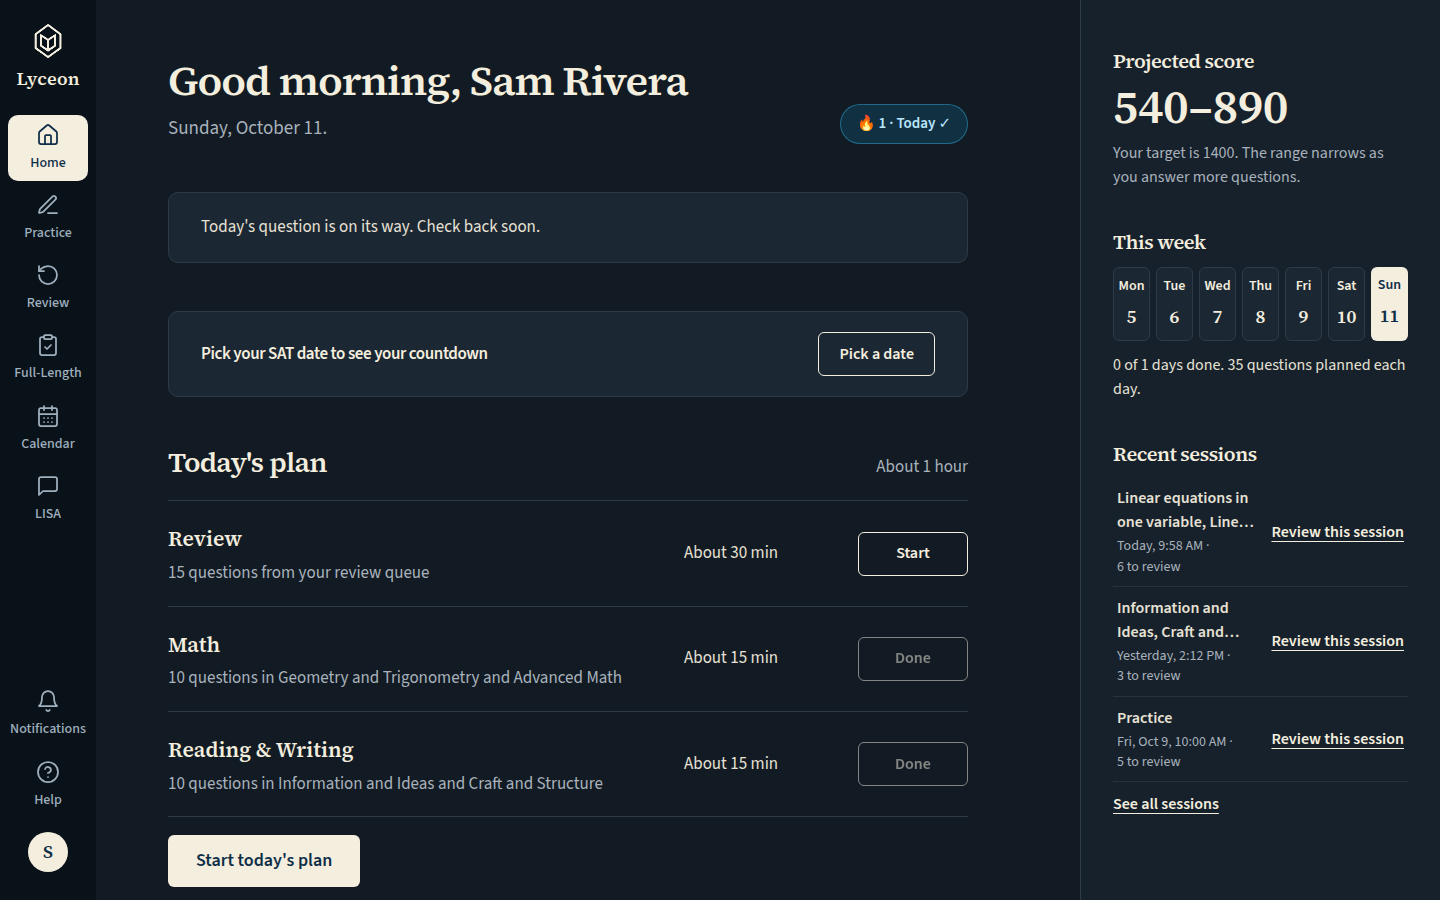
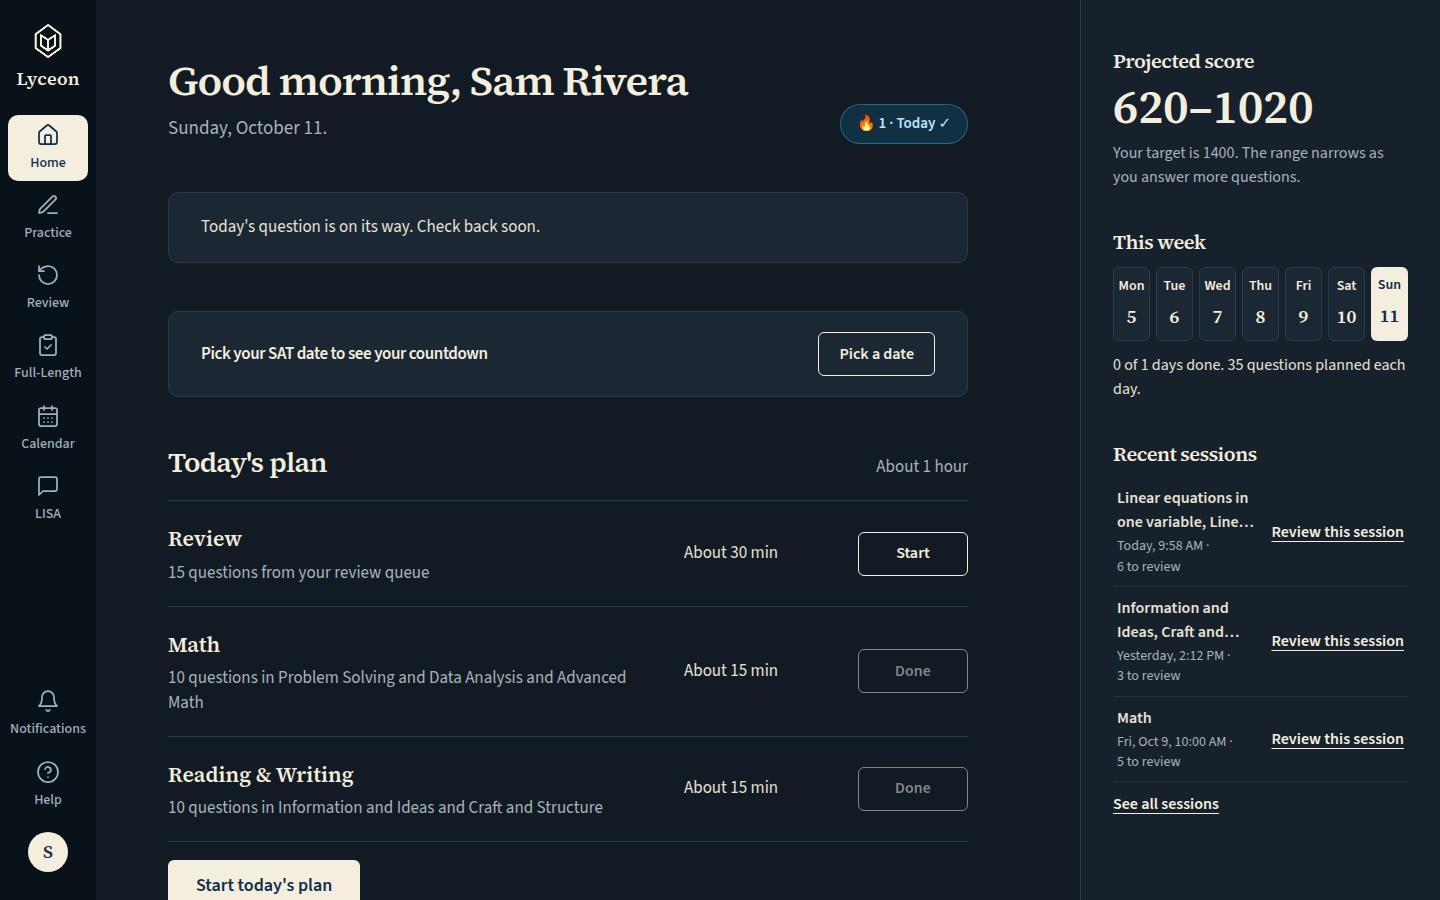
harness(SAT-DATES): canonical section codes in the long-title pool; re-capture
The fixture used "math"/"rw"; the section vocabulary gate requires
'M'/'RW' (long forms are applied at render). The third row now renders
the canonical 'Math' title.

Claude-Session: https://claude.ai/code/session_01DzryTvDS5m7fLVPUjsQYgR

diff --git a/tests/e2e/student-harness/groups/sat-dates.ts b/tests/e2e/student-harness/groups/sat-dates.ts
@@ -36,7 +36,7 @@ const LONG_TITLE_POOL = reviewPoolSummaryResponseSchema.parse({
       local_time: "9:58 AM",
       mode: "practice",
       filters: {
-        sections: ["math"],
+        sections: ["M"],
         domains: ["Algebra"],
         skills: [
           "Linear equations in one variable",
@@ -57,7 +57,7 @@ const LONG_TITLE_POOL = reviewPoolSummaryResponseSchema.parse({
       local_time: "2:12 PM",
       mode: "practice",
       filters: {
-        sections: ["rw"],
+        sections: ["RW"],
         domains: [
           "Information and Ideas",
           "Craft and Structure",
@@ -77,7 +77,7 @@ const LONG_TITLE_POOL = reviewPoolSummaryResponseSchema.parse({
       local_time: "10:00 AM",
       mode: "practice",
       filters: {
-        sections: ["math"],
+        sections: ["M"],
         domains: [],
         skills: [],
         difficulties: [],

diff --git a/docs/plans/student-ui/evidence/wave5/SAT-DATES/index.md b/docs/plans/student-ui/evidence/wave5/SAT-DATES/index.md
@@ -1,6 +1,6 @@
 # The SAT-date picker (dropdown multi-select) closed and open, and two-line recent-session titles; light and dark, 1440 and 390
 
-Generated 2026-10-11T10:02:00.316Z by `pnpm exec tsx tests/e2e/student-harness/capture.ts SAT-DATES` (see `tests/e2e/student-harness/README.md`). Built = a production build of the real client (`vite preview`, or the dev server with STUDENT_HARNESS_CLIENT=dev) against the student harness (real routers over a local Postgres built from this repo's migrations; personas seeded through the real practice routes). Prototype = the signed-off `docs/plans/student-ui/design/prototype/*.dc.html`, rendered locally.
+Generated 2026-10-11T11:13:14.089Z by `pnpm exec tsx tests/e2e/student-harness/capture.ts SAT-DATES` (see `tests/e2e/student-harness/README.md`). Built = a production build of the real client (`vite preview`, or the dev server with STUDENT_HARNESS_CLIENT=dev) against the student harness (real routers over a local Postgres built from this repo's migrations; personas seeded through the real practice routes). Prototype = the signed-off `docs/plans/student-ui/design/prototype/*.dc.html`, rendered locally.
 
 Conditions, read before comparing:
 - Viewport screenshots (not full page) unless the shot says full page: desktop 1440x900, phone 390x844, and any extra size a shot names.
@@ -79,7 +79,7 @@ Prototype: none. NOT PROTOTYPED: the dropdown SAT-date picker and the two-line t
 
 | Viewport | Theme (as rendered) | Built | Prototype |
 |---|---|---|---|
-| desktop | light | ![calendar-sheet-open desktop light](calendar-sheet-open--desktop--light--built.png)<br>`/calendar`, 111 KB, horizontal overflow 0px | none |
+| desktop | light | ![calendar-sheet-open desktop light](calendar-sheet-open--desktop--light--built.png)<br>`/calendar`, 110 KB, horizontal overflow 0px | none |
 | desktop | dark | ![calendar-sheet-open desktop dark](calendar-sheet-open--desktop--dark--built.png)<br>`/calendar`, 109 KB, horizontal overflow 0px | none |
 | mobile | light | ![calendar-sheet-open mobile light](calendar-sheet-open--mobile--light--built.png)<br>`/calendar`, 46 KB, horizontal overflow 0px | none |
 | mobile | dark | ![calendar-sheet-open mobile dark](calendar-sheet-open--mobile--dark--built.png)<br>`/calendar`, 46 KB, horizontal overflow 0px | none |
@@ -94,7 +94,7 @@ Prototype: none. NOT PROTOTYPED: the dropdown SAT-date picker and the two-line t
 | Viewport | Theme (as rendered) | Built | Prototype |
 |---|---|---|---|
 | desktop | light | ![home-recent-long-titles desktop light](home-recent-long-titles--desktop--light--built.png)<br>`/dashboard`, 147 KB, horizontal overflow 0px | none |
-| desktop | dark | ![home-recent-long-titles desktop dark](home-recent-long-titles--desktop--dark--built.png)<br>`/dashboard`, 147 KB, horizontal overflow 0px | none |
+| desktop | dark | ![home-recent-long-titles desktop dark](home-recent-long-titles--desktop--dark--built.png)<br>`/dashboard`, 148 KB, horizontal overflow 0px | none |
 | mobile | light | ![home-recent-long-titles mobile light](home-recent-long-titles--mobile--light--built.png)<br>`/dashboard`, 224 KB, horizontal overflow 0px | none |
 | mobile | dark | ![home-recent-long-titles mobile dark](home-recent-long-titles--mobile--dark--built.png)<br>`/dashboard`, 229 KB, horizontal overflow 0px | none |
 
@@ -108,12 +108,12 @@ Prototype: none. NOT PROTOTYPED: the dropdown SAT-date picker and the two-line t
 |---|---|---|---|
 | desktop | light | ![home-recent-sessions desktop light](home-recent-sessions--desktop--light--built.png)<br>`/dashboard`, 142 KB, horizontal overflow 0px | none |
 | desktop | dark | ![home-recent-sessions desktop dark](home-recent-sessions--desktop--dark--built.png)<br>`/dashboard`, 143 KB, horizontal overflow 0px | none |
-| mobile | light | ![home-recent-sessions mobile light](home-recent-sessions--mobile--light--built.png)<br>`/dashboard`, 218 KB, horizontal overflow 0px | none |
-| mobile | dark | ![home-recent-sessions mobile dark](home-recent-sessions--mobile--dark--built.png)<br>`/dashboard`, 223 KB, horizontal overflow 0px | none |
+| mobile | light | ![home-recent-sessions mobile light](home-recent-sessions--mobile--light--built.png)<br>`/dashboard`, 217 KB, horizontal overflow 0px | none |
+| mobile | dark | ![home-recent-sessions mobile dark](home-recent-sessions--mobile--dark--built.png)<br>`/dashboard`, 222 KB, horizontal overflow 0px | none |
 
 ## Run facts
 
-- Seeded ids: `{"free":{"completedPracticeSessionId":"2b1f3bb6-9df3-4aa8-b4f3-738c74e0e8d5","openPracticeSessionId":"ba695859-3fdc-4188-a21b-8dd4ab5d7428","openReviewSessionId":null,"diagnosticSessionId":null,"scoredExamSessionId":null,"inProgressExamSessionId":null,"lisaConversationId":null,"answered":13},"paid":{"completedPracticeSessionId":"99b0b098-e46b-4d5d-a9ec-a4e1dc792be6","openPracticeSessionId":"3cba63f3-5960-4013-b262-32bfe5222d2d","openReviewSessionId":null,"diagnosticSessionId":"b8d28794-db9c-42e1-8867-5c805e84b899","scoredExamSessionId":null,"inProgressExamSessionId":null,"lisaConversationId":null,"answered":53}}`
+- Seeded ids: `{"free":{"completedPracticeSessionId":"bb24de09-f551-432c-8c2b-9003295b70ac","openPracticeSessionId":"ef061c9d-ff6e-4da1-9fb3-aeb1c4cdc888","openReviewSessionId":null,"diagnosticSessionId":null,"scoredExamSessionId":null,"inProgressExamSessionId":null,"lisaConversationId":null,"answered":13},"paid":{"completedPracticeSessionId":"e5cfd4fa-f369-469d-8486-5889a9bd22bf","openPracticeSessionId":"597610e9-731a-4853-b12f-8c096f909b5d","openReviewSessionId":null,"diagnosticSessionId":"746cae5b-f769-4b00-8169-79da73478aeb","scoredExamSessionId":null,"inProgressExamSessionId":null,"lisaConversationId":null,"answered":53}}`
 - Endpoints the pages asked for that the harness does not serve (answered 404): none
 - Desmos (QA2-B, opt-in `STUDENT_HARNESS_DESMOS=1`): not loaded (a local-only run; the calculator shows its unavailable line)
 - External hosts blocked: none
